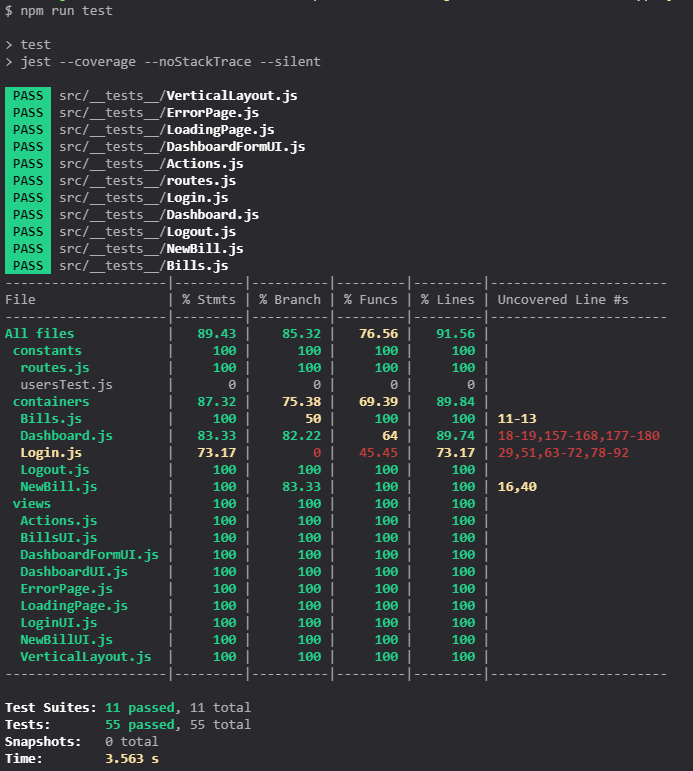
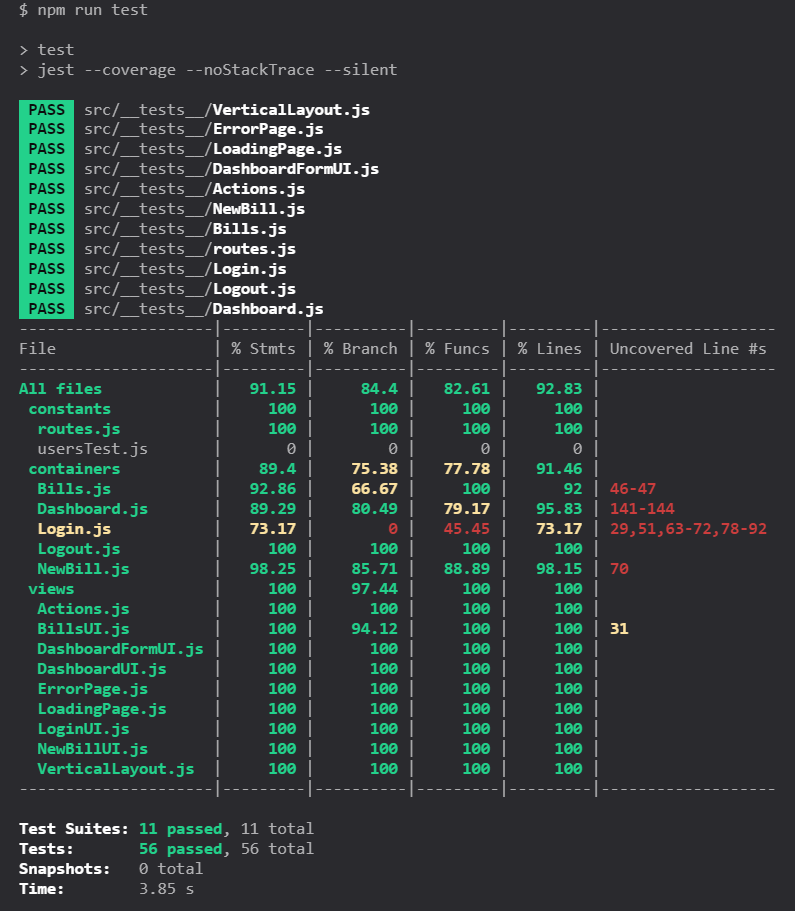
Add true POST tests on new bills and update deliverables

Changed region(s): [[0.0, 0.0, 0.9697, 0.8716], [0.0, 0.9027, 0.3939, 0.9961]]

diff --git a/src/__tests__/NewBill.js b/src/__tests__/NewBill.js
@@ -1,15 +1,12 @@
 /**
  * @jest-environment jsdom
  */
-
 import { fireEvent, screen, waitFor } from "@testing-library/dom"
 import NewBillUI from "../views/NewBillUI.js"
 import NewBill from "../containers/NewBill.js"
 import { ROUTES } from "../constants/routes.js"
 import { localStorageMock } from "../__mocks__/localStorage.js"
 import mockStore from "../__mocks__/store"
-import { bills } from "../fixtures/bills"
-import router from "../app/Router"
 
 jest.mock("../app/store", () => mockStore)
 
@@ -162,8 +159,8 @@ describe("Given I am connected as an employee", () => {
 
         let fileInput = inputs.file;
         let file = new File(['(⌐□_□)'], 'johnDoe.webp', { type: 'text/javascript' });
-        // test works also with file like => new File(['(⌐□_□)'], 'johnDoe.png', { type: 'text/png' });
-        
+        // /* test pass also with file like => */ file = new File(['(⌐□_□)'], 'johnDoe.png', { type: 'text/png' });
+
         const createBill = jest.spyOn(NewBillPage, "createBill");
         const handleChangeFileMok = jest.fn((e) => NewBillPage.handleChangeFile(e));
         fileInput.addEventListener("change", handleChangeFileMok);
@@ -182,7 +179,7 @@ describe("Given I am connected as an employee", () => {
 
       test("Then I fill all required inputs", () => {
         console.error = jest.fn();
-
+        
         const NewBillPage = new NewBill({ document, onNavigate, store: mockStore, localStorage: window.localStorage });
         let form = screen.getByTestId('form-new-bill');
         let submitButton = screen.getByTestId('btn-submit-form');
@@ -193,7 +190,7 @@ describe("Given I am connected as an employee", () => {
         inputs.amount.value = 100;
         inputs.vat.value = 80;
         inputs.pct.value = 20;
-        inputs.commentary.value = "Test de Julien";
+        inputs.commentary.value = "Voyage vers gare Montparnasse";
 
         const sumbmitFn = jest.fn((e) => NewBillPage.handleSubmit(e));
         const spyUpdateBill = jest.spyOn(NewBillPage, 'updateBill');
@@ -203,6 +200,15 @@ describe("Given I am connected as an employee", () => {
 
         expect(sumbmitFn).toHaveBeenCalled();
         expect(spyUpdateBill).toHaveBeenCalled();
+      });
+
+      test('POST INTEGRATION', async () => {
+        const mockedApiFn = mockStore.bills();
+        const spyPost = jest.spyOn(mockedApiFn, "create");
+        const response = await mockedApiFn.create();
+
+        expect(spyPost).toHaveBeenCalledTimes(1);
+        expect(response.key).toBe("1234");
       });
 
     });

diff --git a/src/containers/Dashboard.js b/src/containers/Dashboard.js
@@ -80,7 +80,7 @@ export default class {
 
   handleClickIconEye = () => {
     const billUrl = $('#icon-eye-d').attr("data-bill-url")
-    $('#modaleFileAdmin1').find(".modal-body").html(`<div style='text-align: center;'><img src=${billUrl} alt="Bill"/></div>`)
+    $('#modaleFileAdmin1').find(".modal-body").html(`<div style='text-align: center;'><img src=${billUrl} width="100% alt="Bill"/></div>`)
     if (typeof $('#modaleFileAdmin1').modal === 'function') $('#modaleFileAdmin1').modal('show')
   }
 

diff --git a/src/__tests__/Bills.js b/src/__tests__/Bills.js
@@ -168,7 +168,7 @@ describe("Given I am a user connected as employee", () => {
             }
           }
         })
-
+        
         window.onNavigate(ROUTES_PATH.Bills)
         await new Promise(process.nextTick);
         const message = await screen.getByText(/Erreur 500/)

diff --git a/src/containers/Bills.js b/src/containers/Bills.js
@@ -51,7 +51,7 @@ export default class {
                 }
               }
             })
-          console.log('length', bills.length)
+          // console.log('length', bills.length)
           return bills
         })
     }
